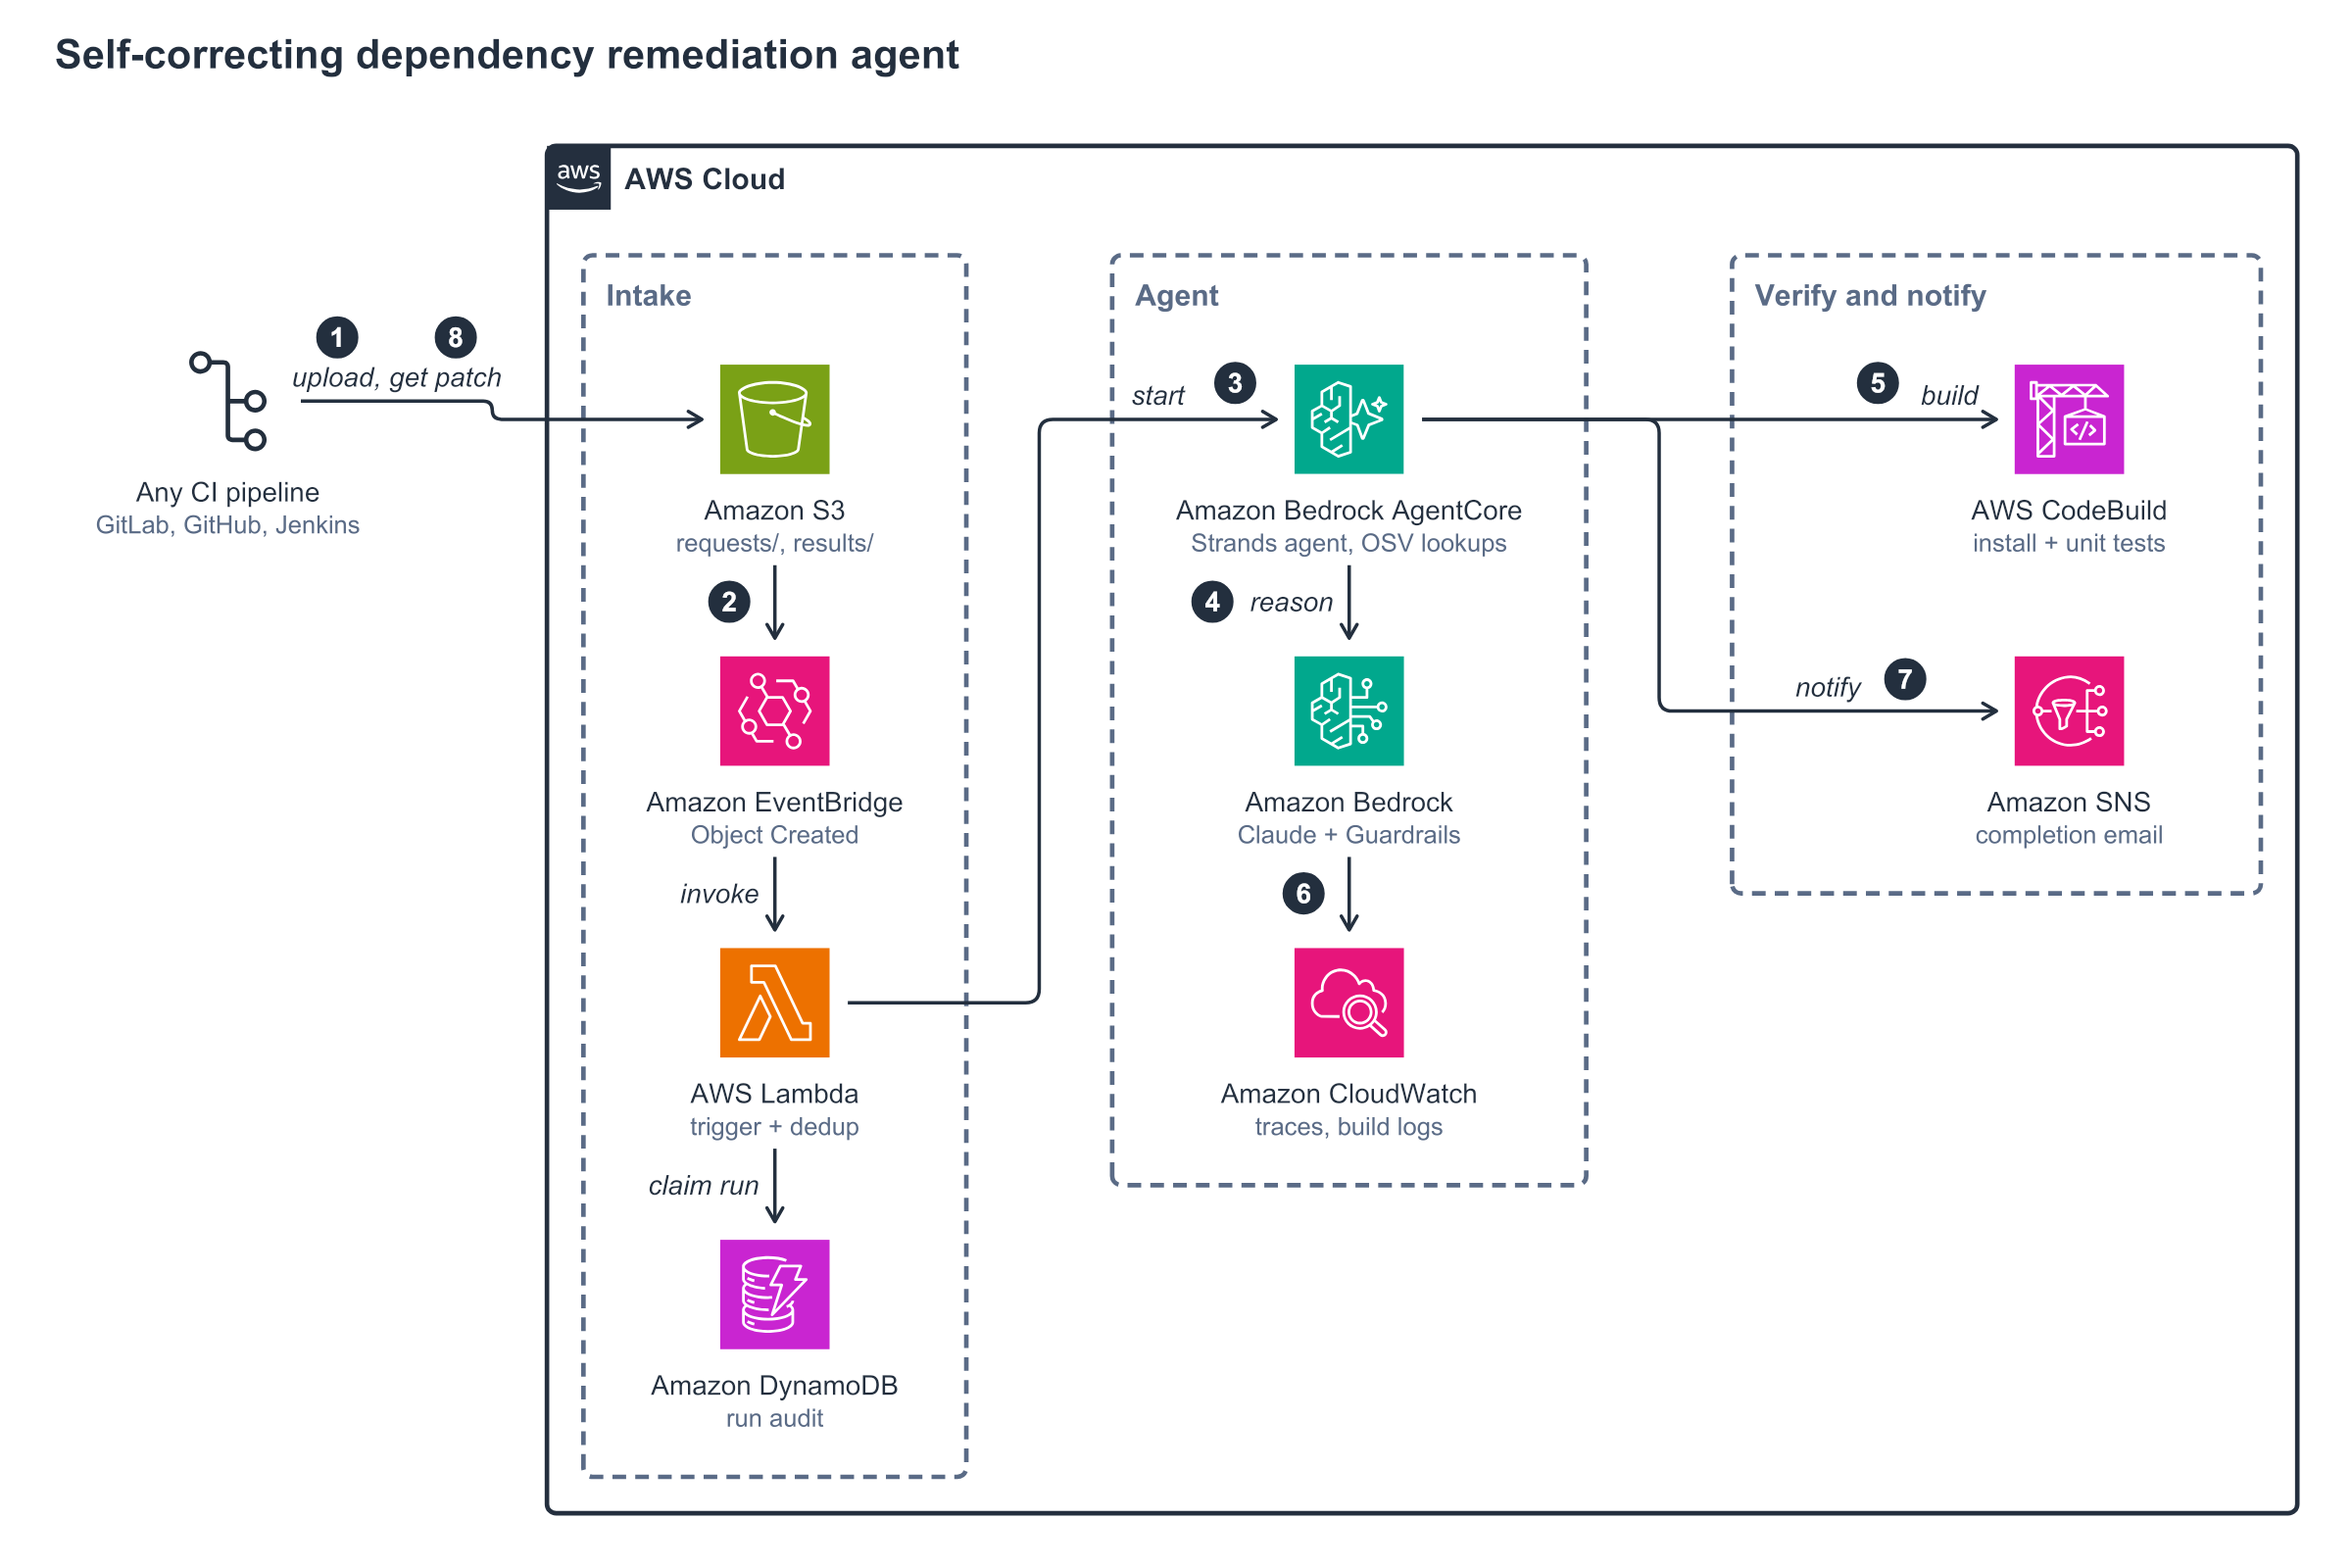
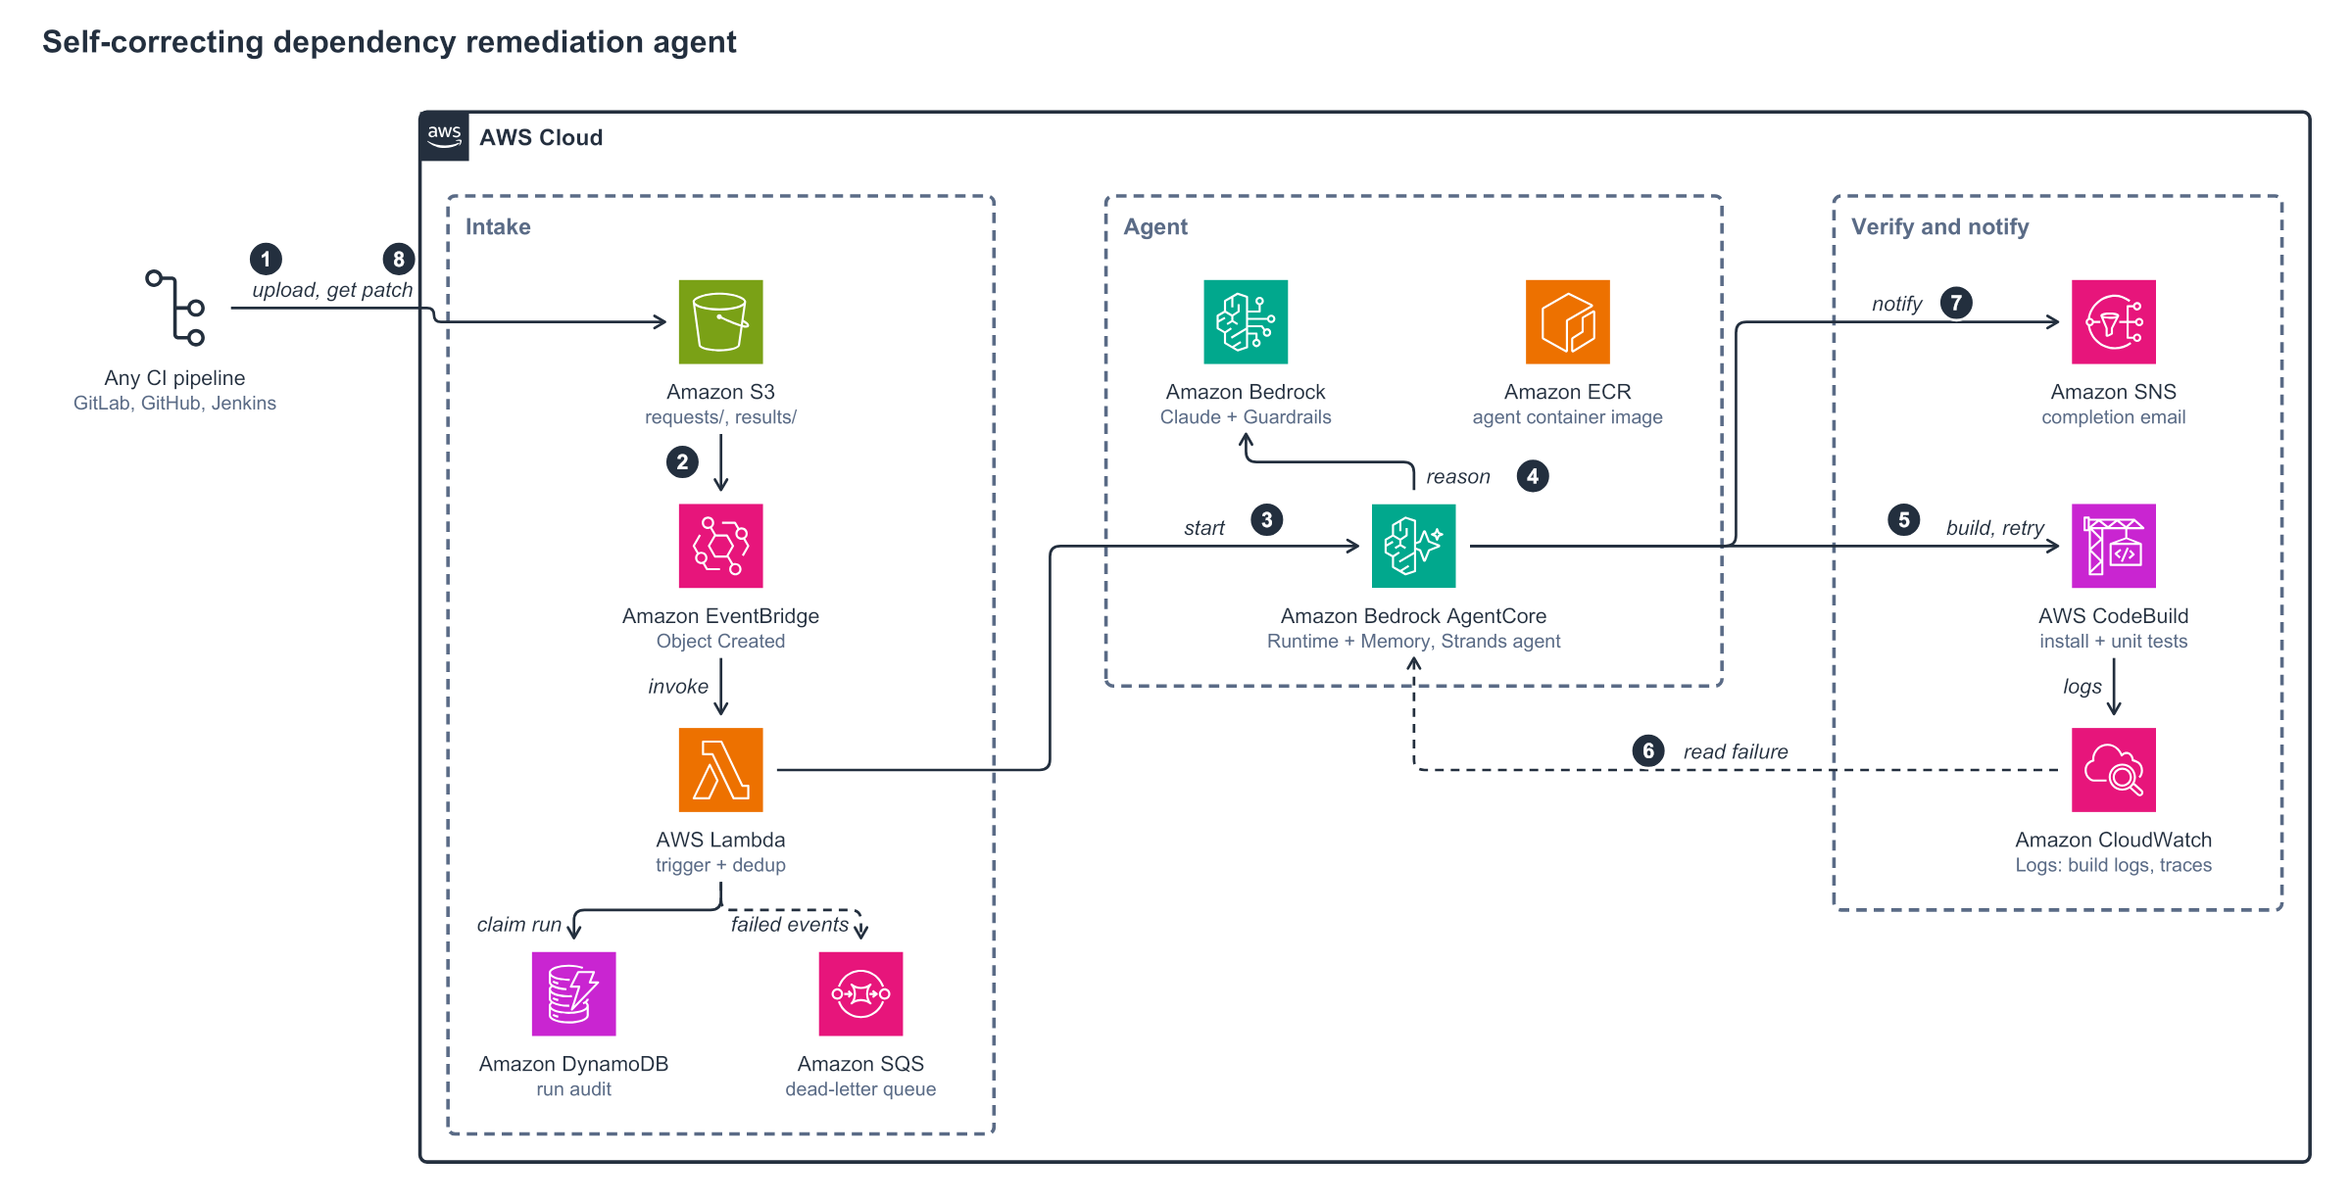
docs: Address bar raiser feedback
Update the architecture diagram (CloudWatch Logs to agent, visible retry loop, SQS dead-letter queue, ECR). Correct the Region notes (no China Regions, GovCloud US-West) and flag the Claude Sonnet 4.5 end-of-life date.

diff --git a/README.md b/README.md
@@ -150,10 +150,16 @@ To change the choice:
 - **Different model:** set `BASE_MODEL_ID`, for example `anthropic.claude-sonnet-4-6`. The geography prefix is still added for you.
   Check the model card of that model, because its profile list can differ.
 - **Exact model or profile:** set `MODEL_ID`, for example the in-Region ID `anthropic.claude-sonnet-4-5-20250929-v1:0`
-  to keep requests in one Region. `MODEL_ID` is required in AWS GovCloud (US) and China.
+  to keep requests in one Region. `MODEL_ID` is required in AWS GovCloud (US-West).
+
+> **Model lifecycle.** Claude Sonnet 4.5 is in the Legacy lifecycle stage on Amazon Bedrock, with an end-of-life date
+> of April 8, 2027. Before that date, set `BASE_MODEL_ID` or `MODEL_ID` to a current Claude model that supports tool use.
 
 `cdk synth` fails with a clear message if the model profile does not match the deployment Region. Choose a Region
-where Amazon Bedrock AgentCore (Runtime and Memory) is available, and grant model access in the Amazon Bedrock console.
+where Amazon Bedrock AgentCore Runtime and AgentCore Memory are available (see
+[Supported AWS Regions](https://docs.aws.amazon.com/bedrock-agentcore/latest/devguide/agentcore-regions.html)).
+AgentCore is not available in the China Regions. In AWS GovCloud (US-West), the stack uses AgentCore Runtime microVMs;
+AgentCore Runtime Instances are not available there. Anthropic models need a one-time use-case form before first use.
 
 Clients use the same Region: set `AWS_REGION` (or pass `remediate --region`), and set the `REMEDIATION_REGION`
 variable in the CI templates.
